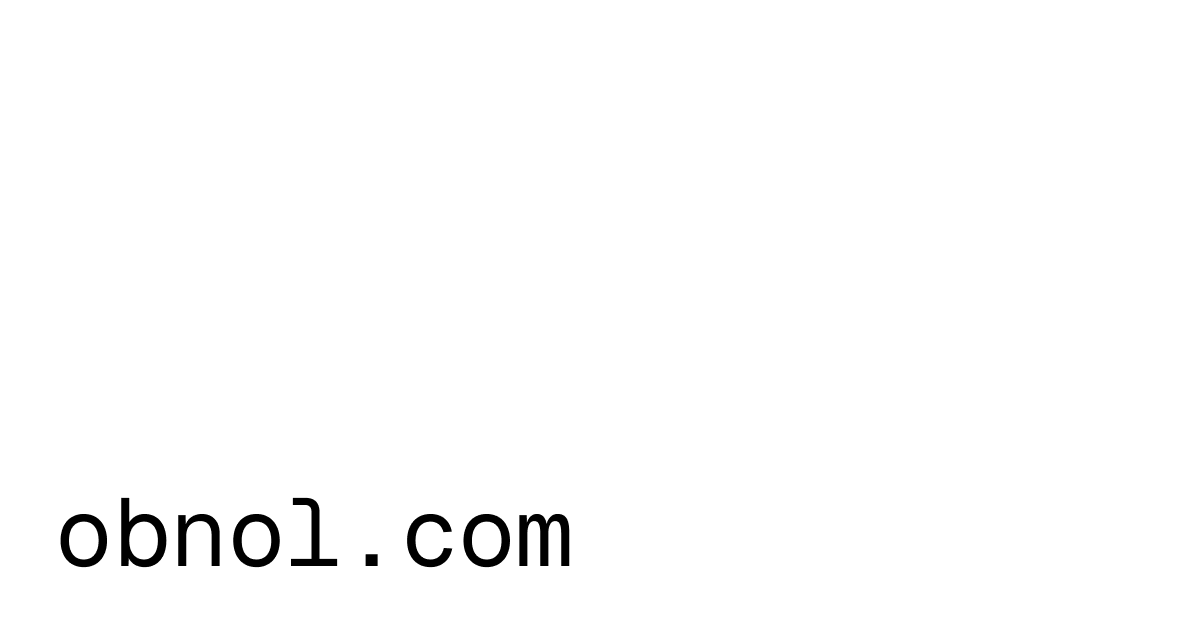
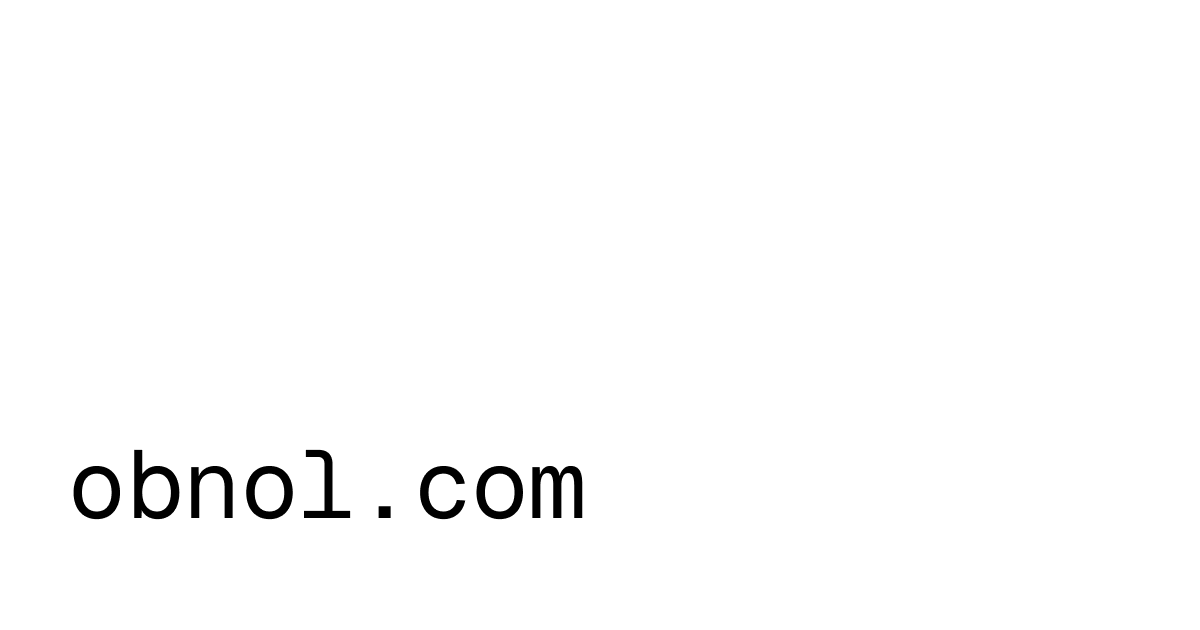
fix: og images

Changed region(s): [[0.0308, 0.6937, 0.4933, 0.9048]]

diff --git a/app/layout.tsx b/app/layout.tsx
@@ -9,6 +9,9 @@ const geistMono = Geist_Mono({
 
 export const metadata: Metadata = {
   metadataBase: new URL("https://www.obnol.com"),
+  alternates: {
+    canonical: "/",
+  },
   title: {
     default: "obnol.com",
     template: "%s | obnol.com",
@@ -18,7 +21,7 @@ export const metadata: Metadata = {
     type: "website",
     locale: "en_US",
     url: "https://www.obnol.com",
-    title: "obnol",
+    title: "obnol.com",
     description: "software engineer",
   },
   robots: {
